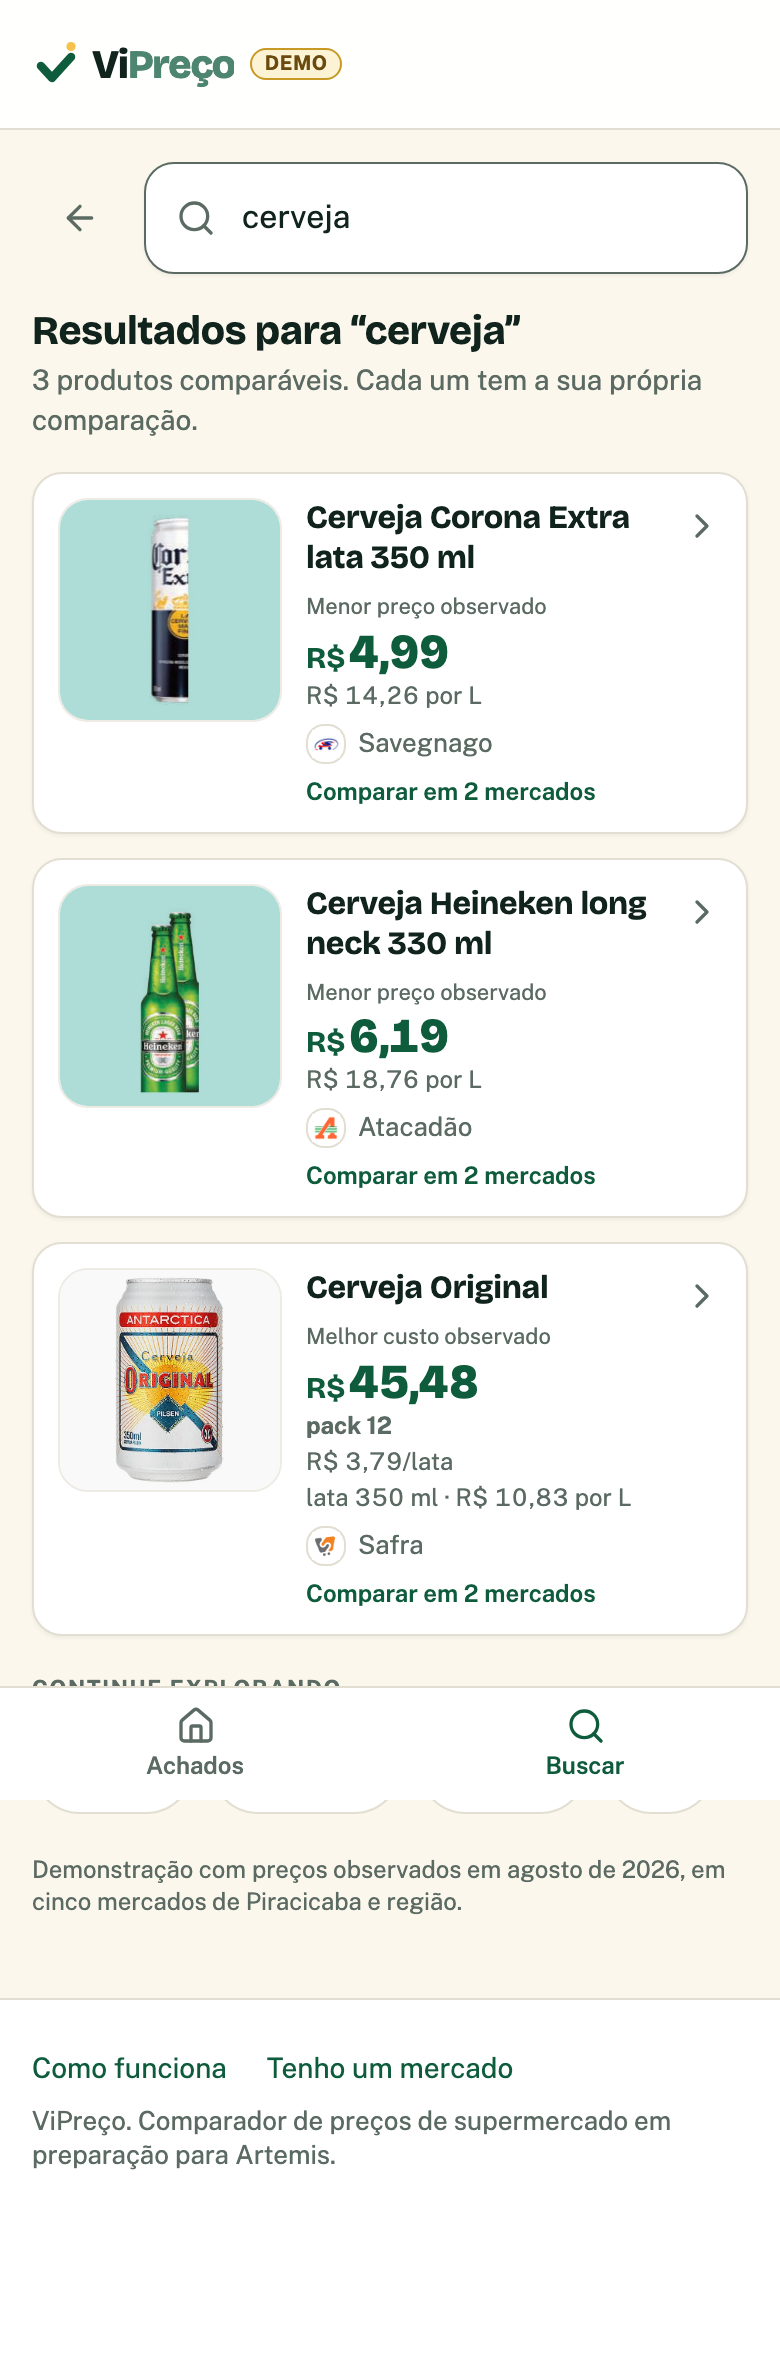
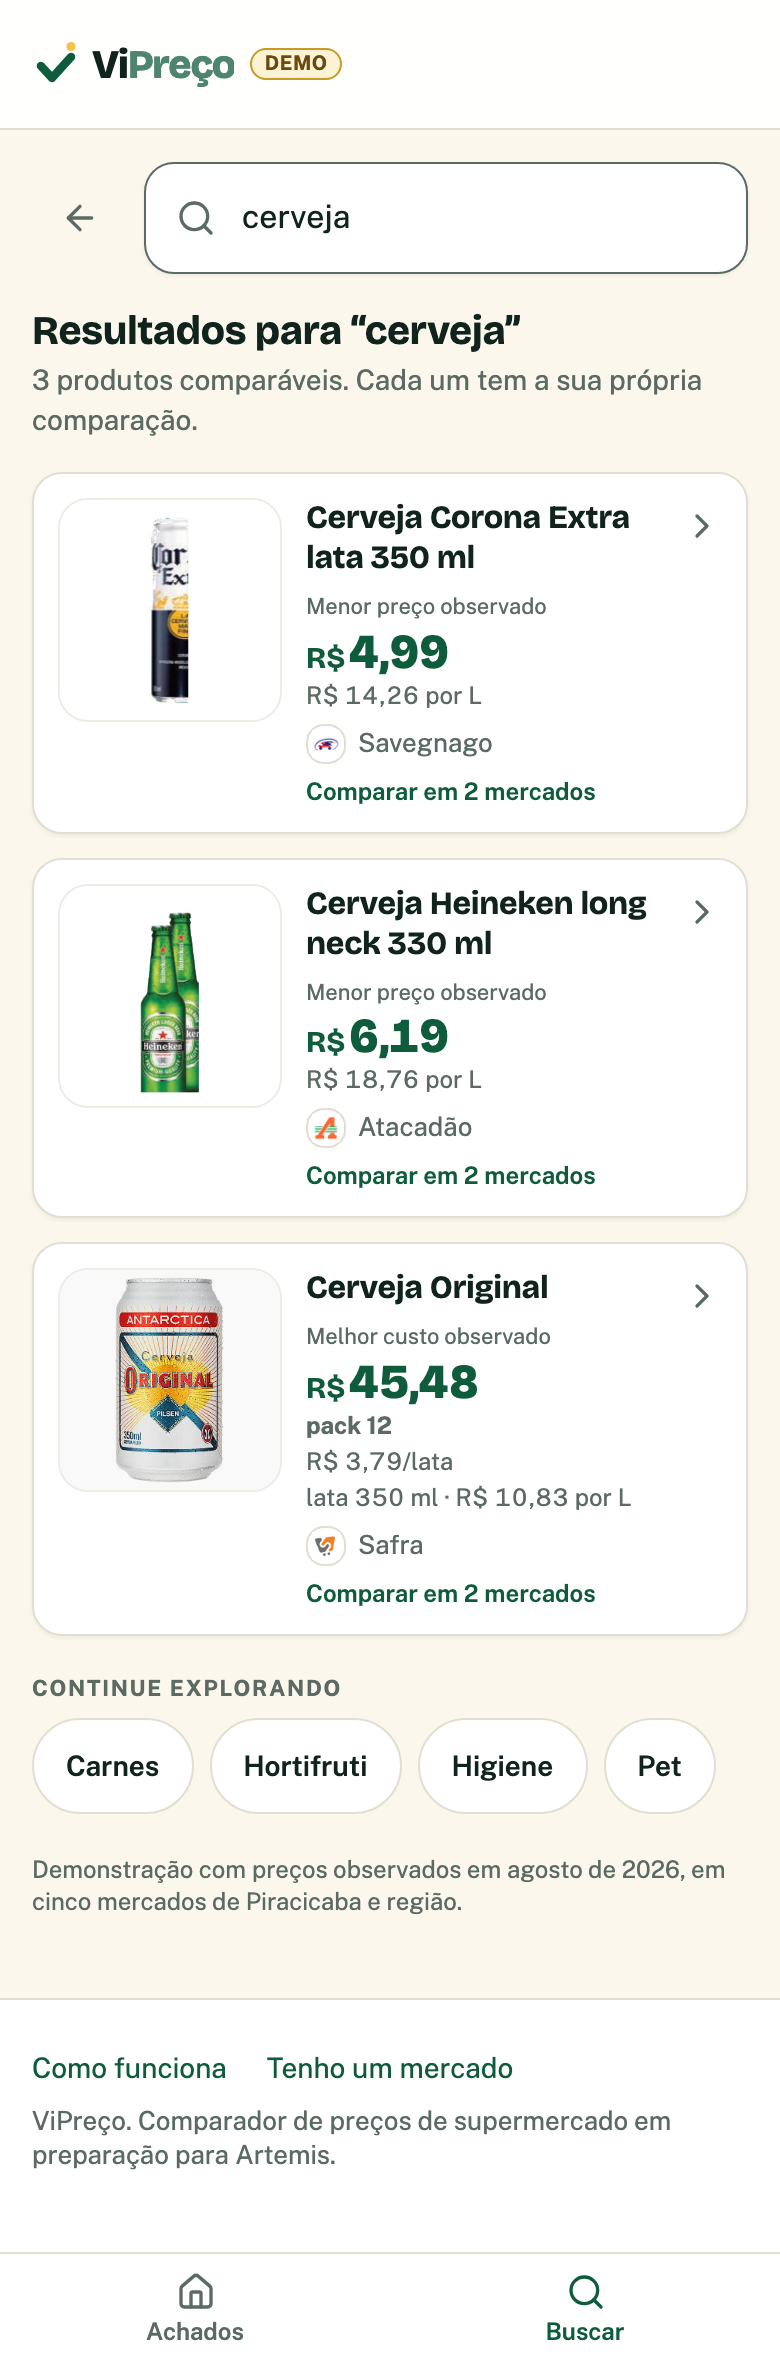
feat(demo): Final Self-Review — pack na identidade, evidência fiel e assets em fundo branco
Três revisores independentes sobre as telas renderizadas + verificação de cada
correção na tela recapturada (7/7) + revisão integral final (0 P0, 0 P1).

- card-v2: com pack obrigatório, a quantidade exibida diz o que se compra
  ("pack 12 × 350 ml") na comparação e na ficha — "350 ml" ao lado de
  R$ 45,48 lia como uma lata a preço de doze (teste de contrato novo)
- ficha: formato unitário unificado com a comparação ("/L", não "por L")
- OfferRankRow: o "·" da linha de data fecha a primeira linha, nunca abre
  a segunda
- catálogo: títulos em até 3 linhas — a variante/contagem que identifica o
  SKU não é mais truncada
- 7 assets do encarte com fundo chapado clareados para branco (flood fill
  pelas bordas, produto intocado): pack Original, Elseve 400, Corona,
  Heineken, Liza, Lasanha, Tixan
- cdp.ts: CARREGAR_IMAGENS agora é chamada de verdade (decode com teto de
  8 s) e o viewport cresce até a altura real da página — header/nav fixed
  não fatiam mais o meio das capturas full-page
- evidência oficial regenerada do head com o pipeline consertado; README
  documenta correções, falsos positivos derrubados e P2 residual

QA: 70 combinações (14 rotas × 320/360/390/430/1280) zero overflow/colisão/
imagem quebrada; lint 0, 1709 testes, build 0; zero diff B2B/backend.

diff --git a/scripts/visual/cdp.ts b/scripts/visual/cdp.ts
@@ -164,7 +164,13 @@ const CARREGAR_IMAGENS = `
   (async () => {
     const imgs = Array.from(document.images);
     for (const img of imgs) img.loading = "eager";
-    await Promise.allSettled(imgs.map((img) => img.decode().catch(() => undefined)));
+    // Corrida com teto de 8 s: decode() de uma imagem cujo fetch estagnou nunca resolve,
+    // e um awaitPromise pendurado congelava a captura inteira — pior que uma imagem a
+    // menos na foto. No caso normal a decodificação termina muito antes do teto.
+    await Promise.race([
+      Promise.allSettled(imgs.map((img) => img.decode().catch(() => undefined))),
+      new Promise((r) => setTimeout(r, 8000)),
+    ]);
     return imgs.length;
   })()
 `;
@@ -190,7 +196,33 @@ export async function capturarPagina(
   await esperar(opcoes.espera ?? 2500);
   // Depois da espera, não antes: a folha precisa sobreviver à hidratação, que troca a árvore.
   await s.enviar("Runtime.evaluate", { expression: CONGELAR_ANIMACAO, returnByValue: true });
+  // Toda imagem eager e decodificada ANTES de fotografar — sem isto a evidência mentia
+  // duas vezes: lazy abaixo da dobra saía como tile branco, e JPEG semi-decodificado
+  // saía como produto "fatiado" (a lata cortada da V4.2).
+  await s.enviar("Runtime.evaluate", {
+    expression: CARREGAR_IMAGENS,
+    awaitPromise: true,
+    returnByValue: true,
+  });
   await esperar(120);
+  // O viewport cresce até a altura REAL do documento antes do screenshot: com
+  // `captureBeyondViewport` sozinho, header e bottom-nav `fixed` pintavam na posição do
+  // viewport curto — uma barra atravessando o meio da página, decapitando cards. Com o
+  // viewport na altura da página, `fixed` top pinta no topo e `fixed` bottom no rodapé,
+  // exatamente como o leitor veria cada extremo.
+  const altura = await medir<number>(
+    s,
+    "Math.ceil(Math.max(document.documentElement.scrollHeight, document.body.scrollHeight))",
+  );
+  if (opcoes.clip === undefined && altura > 900) {
+    await s.enviar("Emulation.setDeviceMetricsOverride", {
+      width: opcoes.largura,
+      height: altura,
+      deviceScaleFactor: 2,
+      mobile: opcoes.movel,
+    });
+    await esperar(350);
+  }
   const { data } = await s.enviar<{ data: string }>("Page.captureScreenshot", {
     format: "png",
     captureBeyondViewport: true,

diff --git a/src/routes/produto_.$productId.oferta.$priceId.tsx b/src/routes/produto_.$productId.oferta.$priceId.tsx
@@ -165,10 +165,12 @@ function OfferPage() {
               ) : null}
             </p>
             {/* V4.3 §1 — o pack a que o desembolso se refere, e o por-unidade anunciado,
-                secundário. O número grande é o que sai do bolso; o resto é informação. */}
+                secundário. O número grande é o que sai do bolso; o resto é informação.
+                Aqui a forma completa ("pack 12 × 350 ml"): o título diz "lata 350 ml", e
+                sem o × a ficha lia como uma lata a preço de doze (Fable review). */}
             {visao.preco.embalagemMinima !== null ? (
               <p aria-hidden="true" className="text-muted-foreground mt-1 text-sm font-bold">
-                {visao.preco.embalagemMinima}
+                {visao.identidade.quantidade ?? visao.preco.embalagemMinima}
               </p>
             ) : null}
             {visao.preco.porUnidade !== null ? (
@@ -184,9 +186,12 @@ function OfferPage() {
                 {visao.simulacao}
               </p>
             ) : null}
+            {/* Mesma compactação da comparação ("/L", não "por L"): duas linhas acima está
+                "R$ 3,79/lata", e as duas convenções na mesma coluna liam como descuido. */}
             {visao.unitario !== null ? (
               <p aria-hidden="true" className="text-muted-foreground mt-0.5 text-sm tabular-nums">
-                {formatPrice(visao.unitario.display)} {visao.unitario.rotulo}
+                {formatPrice(visao.unitario.display)}
+                {visao.unitario.rotulo.replace(/^por /, "/")}
               </p>
             ) : null}
             <span className="sr-only">{visao.preco.falado}</span>

diff --git a/src/components/OfferRankRow.tsx b/src/components/OfferRankRow.tsx
@@ -223,12 +223,16 @@ export function OfferRankRow({
         <div className="text-muted-foreground mt-2 flex flex-wrap items-center gap-x-2 gap-y-1 text-xs">
           <SourceBadge source={entry.source_type} label={visao.procedencia.origem} />
           {/* V4.2 §6 — cada fato de data é um segmento indivisível: quando falta largura,
-              a quebra acontece ENTRE "09/08" e "valeu até 09/08", nunca no meio da frase
-              ("09/08 · valeu até / 09/08" parecia acidente de layout). */}
-          <span className="tabular-nums whitespace-nowrap">{formatDiaMes(entry.observed_at)}</span>
+              a quebra acontece ENTRE "09/08 ·" e "valeu até 09/08", nunca no meio da frase.
+              O "·" fica no FIM do primeiro segmento: separador fechando linha é vírgula;
+              separador ABRINDO linha parecia acidente de tipografia (Fable review). */}
+          <span className="tabular-nums whitespace-nowrap">
+            {formatDiaMes(entry.observed_at)}
+            {entry.valid_until !== null ? " ·" : ""}
+          </span>
           {entry.valid_until !== null ? (
             <span className="tabular-nums whitespace-nowrap">
-              {`· ${visao.procedencia.validadePassada ? "valeu até" : "válido até"} ${formatDiaMes(entry.valid_until)}`}
+              {`${visao.procedencia.validadePassada ? "valeu até" : "válido até"} ${formatDiaMes(entry.valid_until)}`}
             </span>
           ) : null}
         </div>

diff --git a/src/lib/card-v2.ts b/src/lib/card-v2.ts
@@ -724,6 +724,13 @@ export function montarVisaoDoCard(
       ? null
       : derivadoDoRelogio;
   const quantidade = escreverQuantidade(oferta);
+  // Com pack obrigatório, a quantidade exibida é o que se COMPRA, não só o que se bebe:
+  // "350 ml" ao lado de R$ 45,48 lia como uma lata a preço de doze (Fable review §1).
+  const pack = packObrigatorio(oferta);
+  const quantidadeExibida =
+    pack !== null && quantidade.texto !== null
+      ? `${pack.rotulo} × ${quantidade.texto}`
+      : quantidade.texto;
   const { preco, simulacao, unitario } = resolverPrecos(oferta, opcoes.gramas ?? PESO_PADRAO);
 
   return {
@@ -731,7 +738,7 @@ export function montarVisaoDoCard(
       nome: oferta.product.name,
       marca: oferta.product.brand,
       variante: oferta.product.variant,
-      quantidade: quantidade.texto,
+      quantidade: quantidadeExibida,
       complemento: quantidade.complemento,
       quantidadeEstruturada: quantidade.estruturada,
       embalagem: escreverEmbalagem(oferta.product.package_type ?? null, oferta.product.variant),

diff --git a/src/lib/card-v2.test.ts b/src/lib/card-v2.test.ts
@@ -497,6 +497,25 @@ describe("pack obrigatório — o protagonista é o desembolso mínimo real (V4.
     });
     expect(precoParaCompartilhar(oferta({ price: 3.79 }))).toEqual({ preco: 3.79 });
   });
+
+  it("a quantidade de identidade diz o que se COMPRA: pack 12 × 350 ml, nunca 350 ml solto", () => {
+    // "350 ml" ao lado de R$ 45,48 lia como uma lata a preço de doze (Fable review):
+    // ao lado do desembolso do pack, a identidade carrega o pack junto.
+    const v = visao({
+      ...original,
+      product: produto({ quantity_value: 350, quantity_unit: "ml" }),
+      quantity_provenance: "confirmed",
+    });
+    expect(v.identidade.quantidade).toBe("pack 12 × 350 ml");
+    // Sem pack declarado, a quantidade continua a de sempre.
+    expect(
+      visao({
+        price: 3.79,
+        product: produto({ quantity_value: 350, quantity_unit: "ml" }),
+        quantity_provenance: "confirmed",
+      }).identidade.quantidade,
+    ).toBe("350 ml");
+  });
 });
 
 describe("condição de promoção", () => {

diff --git a/src/components/SearchResultCard.tsx b/src/components/SearchResultCard.tsx
@@ -58,7 +58,10 @@ export function SearchResultCard({ resumo, now }: { resumo: ResumoDeBusca; now: 
         <ProductImage imagem={imagem} categoria={product.category} tamanho="lista" />
 
         <div className="flex min-w-0 flex-1 flex-col gap-0.5">
-          <h2 className="font-display line-clamp-2 text-base leading-tight font-bold">
+          {/* Três linhas, não duas: com duas, "…Dolce Gusto…" e "…Sempre Livre 32…" cortavam
+              exatamente a variante/contagem que identifica o SKU — num catálogo cuja tese é
+              identidade exata, o nome truncado derrota o card (Fable review). */}
+          <h2 className="font-display line-clamp-3 text-base leading-tight font-bold">
             {formatProductName(product)}
           </h2>
           {detalhes.length > 0 ? (

diff --git a/docs/evidence/visual/comparaveis-v2/README.md b/docs/evidence/visual/comparaveis-v2/README.md
@@ -1,4 +1,4 @@
-# Demo V4.3 — Final Micro-Remediation — evidência visual
+# Demo V4.3 — Final Self-Review + Live Staging Release — evidência visual
 
 Capturas a 390 px CSS (`deviceScaleFactor: 2`, PNG de 780 px) contra o servidor de
 desenvolvimento na branch `feat/demo-comparaveis-v2`, geradas por
@@ -30,6 +30,47 @@ a V4.3 fez o preço da Original dizer o desembolso mínimo real.
 | `benchmark-lessons-board.png`         | 11 · Decisões adotadas/rejeitadas de cada benchmark                     |
 | `benchmark-diagnosis.md`              | Diagnóstico por dimensão + matriz KEEP/ADAPT/REJECT (V2/V3)             |
 | `*-390-dobra.png`                     | Primeira dobra de cada tela (insumo das pranchas)                       |
+
+## O que o Final Self-Review mudou (10/08/2026 — antes do release em staging)
+
+Três revisores independentes (sem o contexto da implementação) revisaram as 12 telas
+renderizadas do head contra o North Star e as lições de benchmark; cada achado foi
+verificado no DOM/app real antes de virar correção, e um quarto revisor confirmou cada
+correção na tela recapturada (7/7 PASSOU, 0 FALHOU).
+
+- **Pack obrigatório na identidade (P0)** — o card rank 1 da Original dizia "350 ml" ao
+  lado de R$ 45,48 (uma lata a preço de doze); agora a quantidade exibida diz o que se
+  COMPRA: **"pack 12 × 350 ml"**, na comparação e na ficha (`card-v2.ts`, com teste de
+  contrato). O rank 2 segue "4,2 L" — cada linha carrega o próprio SKU.
+- **Formato unitário unificado na ficha (P1)** — "R$ 3,79/lata" e "R$ 10,83 **por** L" a
+  duas linhas de distância viraram o mesmo formato compacto ("/L"), o da comparação.
+- **Separador de data sem linha órfã (P1)** — quando a linha de procedência quebra, o "·"
+  fecha a primeira linha ("09/08 ·") em vez de abrir a segunda.
+- **Títulos do catálogo em até 3 linhas (P1)** — "…Dolce Gusto…" e "…Sempre Livre 32…"
+  truncavam exatamente a variante/contagem que identifica o SKU; agora aparecem inteiros.
+- **Sete fundos de asset clareados para branco (P1)** — pack Original (teal), Elseve 400
+  (azul), Corona e Heineken (teal), Liza (amarelo), Lasanha (rosa), Tixan (roxo): flood
+  fill a partir das bordas, produto intocado, unificando os tiles dentro de cada lista.
+- **Pipeline de evidência consertado de verdade (P1)** — `CARREGAR_IMAGENS` existia mas
+  nunca era chamada; agora toda captura espera o decode (com teto de 8 s) e o viewport
+  cresce até a altura real da página antes do screenshot — header/nav `fixed` pintam no
+  topo/rodapé em vez de fatiar o meio da página, e imagens lazy não saem como tile branco.
+- **Falsos positivos derrubados com evidência** — "R$ 19.95 com ponto" (o DOM mostra
+  vírgula), "R$4,99 colado" (há espaço em todo preço), "12 tiles brancos no catálogo"
+  (artefato da captura; o app real renderiza as 24 imagens).
+- **Por design, não defeito** — ofertas "valeu até 09/08" ranqueadas: é o snapshot
+  histórico declarado (§18; banner "Importante" + nota de demonstração em toda
+  comparação); falsificar `valid_until` é proibido. Mercados reais com logos: decisão do
+  Founder (a planilha é a coleta real dele; DL-040). Montagens multi-unidade do encarte
+  (Dreamies, Heineken, Sanol 30, Nivea/Rexona variedades, Eliminador Sanol fragrâncias):
+  arte da própria fonte com o SKU/oferta correto — isolar uma unidade exigiria edição
+  que a política proíbe.
+- **P2 residual documentado** — fundos de encarte remanescentes em 3 tiles do catálogo
+  (Sempre Livre azul-degradê, Linguiça creme, Farofa bege — o clareamento comeria o
+  produto) e o trio hortifruti em verde (conjunto intencional); numeral de ranking sem
+  badge circular; "Menor preço observado" × "Melhor custo observado" (semânticas
+  distintas e deliberadas); três rótulos de CTA de WhatsApp; datas com verbosidade
+  diferente por superfície (curta na comparação, completa na ficha — deliberado).
 
 ## O que a V4.3 mudou (10/08/2026 — Final Micro-Remediation)
 
